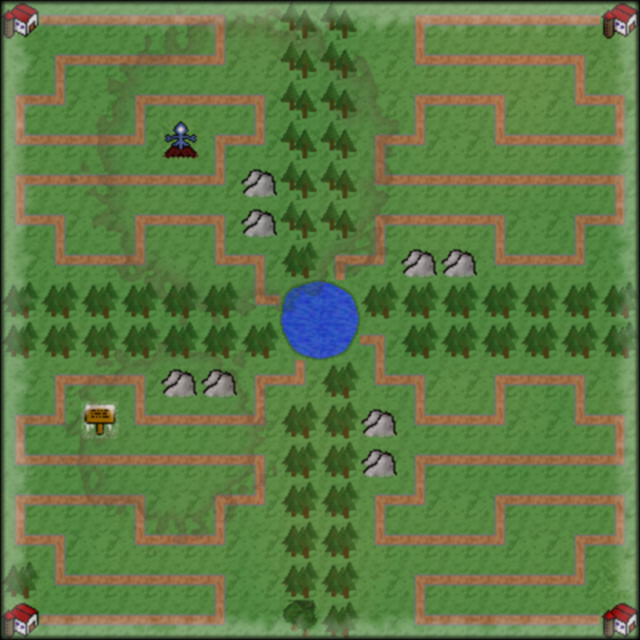
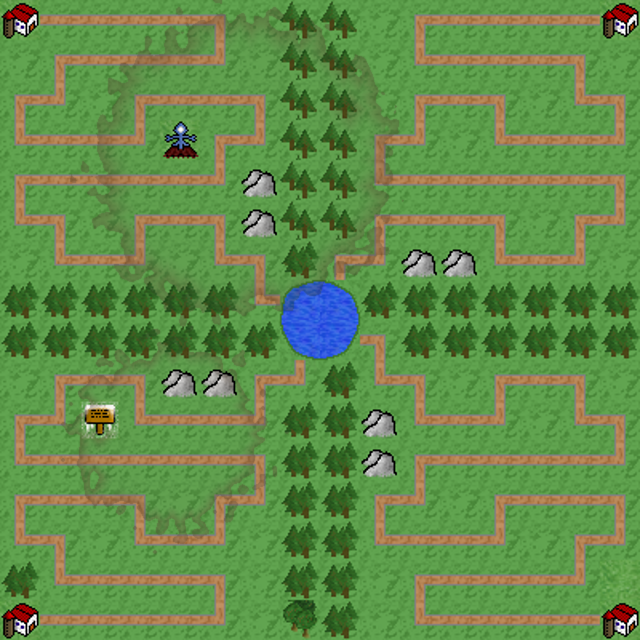
New background

diff --git a/game.cpp b/game.cpp
@@ -77,7 +77,7 @@ void Game::initBoard()
     gameBackground.setTexture(textures.textureGameBackground);
 
 //    viewTiles.setViewport(sf::FloatRect(0.04f,0.060f, 1.0f, 1.0f));
-    viewTiles.setViewport(sf::FloatRect(0.1f,0.05f, 1.0f, 1.0f));
+    viewTiles.setViewport(sf::FloatRect(0.15f,0.1f, 1.0f, 1.0f));
     viewGui.setViewport(sf::FloatRect(0.806f,0.066f, 1, 1));
     selector.changeColor(turn); //This is only for the test TODO: remove
 
@@ -163,6 +163,13 @@ void Game::loadAssets()
     {
         std::exit(1);
     }
+    if (!textureBackgroundArt.loadFromFile("assets/img/background_land.png"))
+        std::exit(1);
+
+
+    spriteBackgroundArt.setTexture(textureBackgroundArt);
+
+
 
     if (!musicGame.openFromFile("assets/audio/game.ogg"))
         std::exit(1);
@@ -530,7 +537,12 @@ void Game::drawBaseGame()
 void Game::drawCharacters(){
 //    window.setView(viewFull);
     window.setView(viewTiles); // Yeah Katia's inspiration
+
+
     window.draw(gameBackground);
+    window.setView(viewFull);
+    window.draw(spriteBackgroundArt);
+    window.setView(viewTiles);
     drawSquares();
     for (int i=0;i<4;i++)
     {

diff --git a/data.cpp b/data.cpp
@@ -28,7 +28,7 @@ int terrainArray[24] = {
  */
 std::array<std::array<int,2>,256> boards = {
     {
-        {0,1},   {0,2},     {1,3},      {2,4},     {3,5},     {4,21},     {-1,-1},   {-1,-1},   {-1,-1},    {-1,-1},    {11,26},       {12,10},    {13,11}, 	 {14,12},    {15,13},   {-1,14},
+        {-1,1},   {0,2},     {1,3},      {2,4},     {3,5},     {4,21},     {-1,-1},   {-1,-1},   {-1,-1},    {-1,-1},    {11,26},       {12,10},    {13,11}, 	 {14,12},    {15,13},   {-1,14},
         {-1,-1}, {18,33},   {19,17},    {20,18},   {21,19},   {5,20},     {-1,-1},   {-1,-1},   {-1,-1},    {-1,-1},    {10, 27,},     {26,28},    {27,29}, 	 {28,30},    {29,46},   {-1,-1},
         {33,48}, {17,32},   {-1,-1},    {51,36},   {35,37},   {36,38},    {37,54},   {-1,-1},   {-1,-1},    {-1,-1},    {43,58},       {44,42},    {60,43}, 	 {-1,-1},    {30,47},   {46,63},
         {32,49}, {48,50},   {49,51},    {50,35},   {-1,-1},   {54,69},    {38,53},   {-1,-1},   {-1,-1},    {58,73},    {42,57},       {-1,-1},    {61,44}, 	 {62,60},    {63,61},   {47,62},

diff --git a/grouphud.cpp b/grouphud.cpp
@@ -19,11 +19,11 @@ void GroupHud::setFont(sf::Font *gameFont) {
     roundName.setFont(*gameFont);
     monthName.setFont(*gameFont);
 
-    seasonName.setCharacterSize(10);
-    roundName.setCharacterSize(10);
-    monthName.setCharacterSize(10);
-    roundName.move(100, 0);
-    monthName.move(200, 0);
+    seasonName.setCharacterSize(30);
+    roundName.setCharacterSize(30);
+    monthName.setCharacterSize(30);
+    roundName.move(400, 0);
+//    monthName.move(400, 0);
     setMonthName(1);
 }
 
@@ -48,7 +48,7 @@ void GroupHud::draw(sf::RenderTarget& target, sf::RenderStates states) const{
 
         target.draw(seasonName, states);
         target.draw(roundName, states);
-        target.draw(monthName, states);
+//        target.draw(monthName, states);
 
 
 }

diff --git a/guiwindow.cpp b/guiwindow.cpp
@@ -24,7 +24,7 @@ GuiWindow::GuiWindow(TextureHolder *textures)
     bgdDark.setTextureRect((sf::IntRect)rectangle.getLocalBounds());
     title = "Choose building:";
     guiTitleTxt.setFont(guiElemFont);
-    guiTitleTxt.setCharacterSize(18);
+    guiTitleTxt.setCharacterSize(58);
     guiTitleTxt.setColor(sf::Color(255,255,255,200));
     guiTitleTxt.move(2,0);
     guiTitleTxt.setString(title);

diff --git a/game.h b/game.h
@@ -69,6 +69,9 @@ private:
     sf::Sprite spriteBackgroundDark;
 
 
+    sf::Texture textureBackgroundArt;
+    sf::Sprite spriteBackgroundArt;
+
     sf::Texture textureTiles;
     sf::Texture textureFaces;
     sf::Font gameFont;
